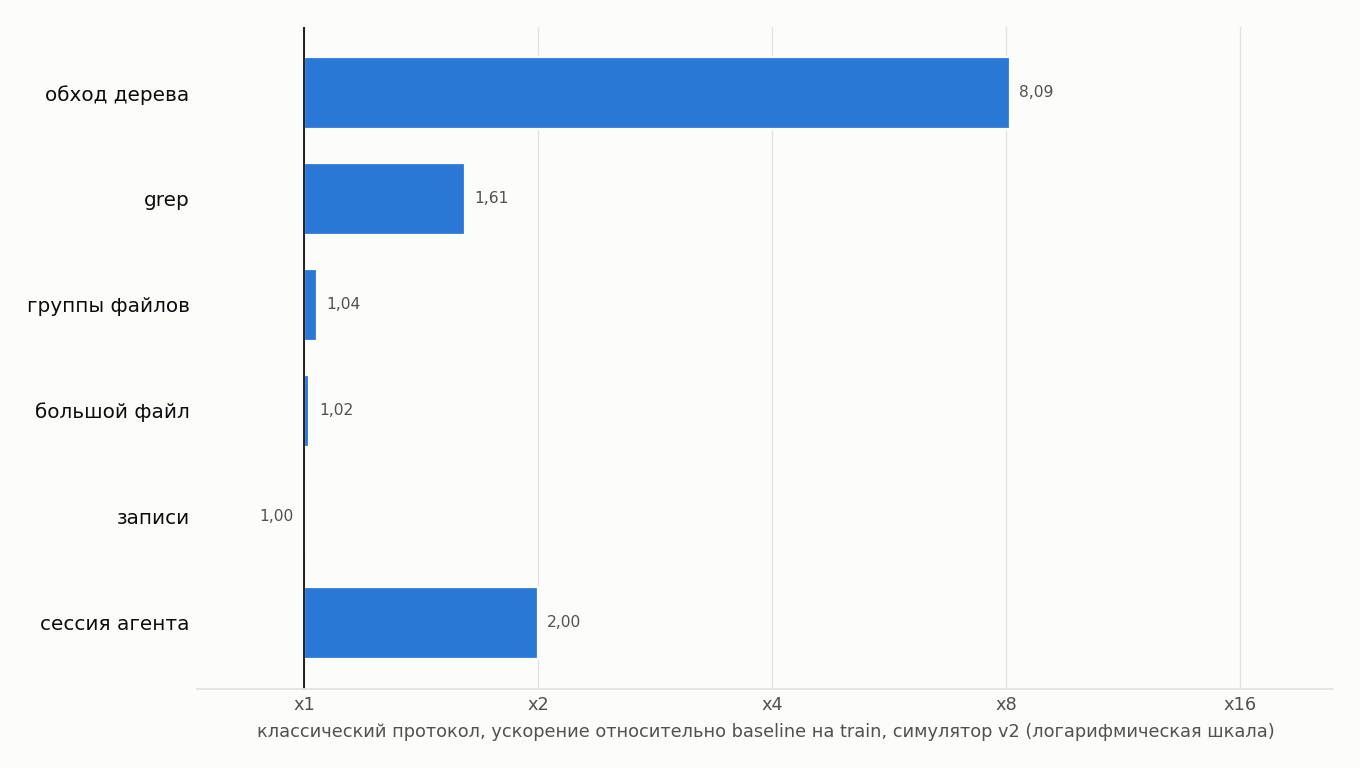
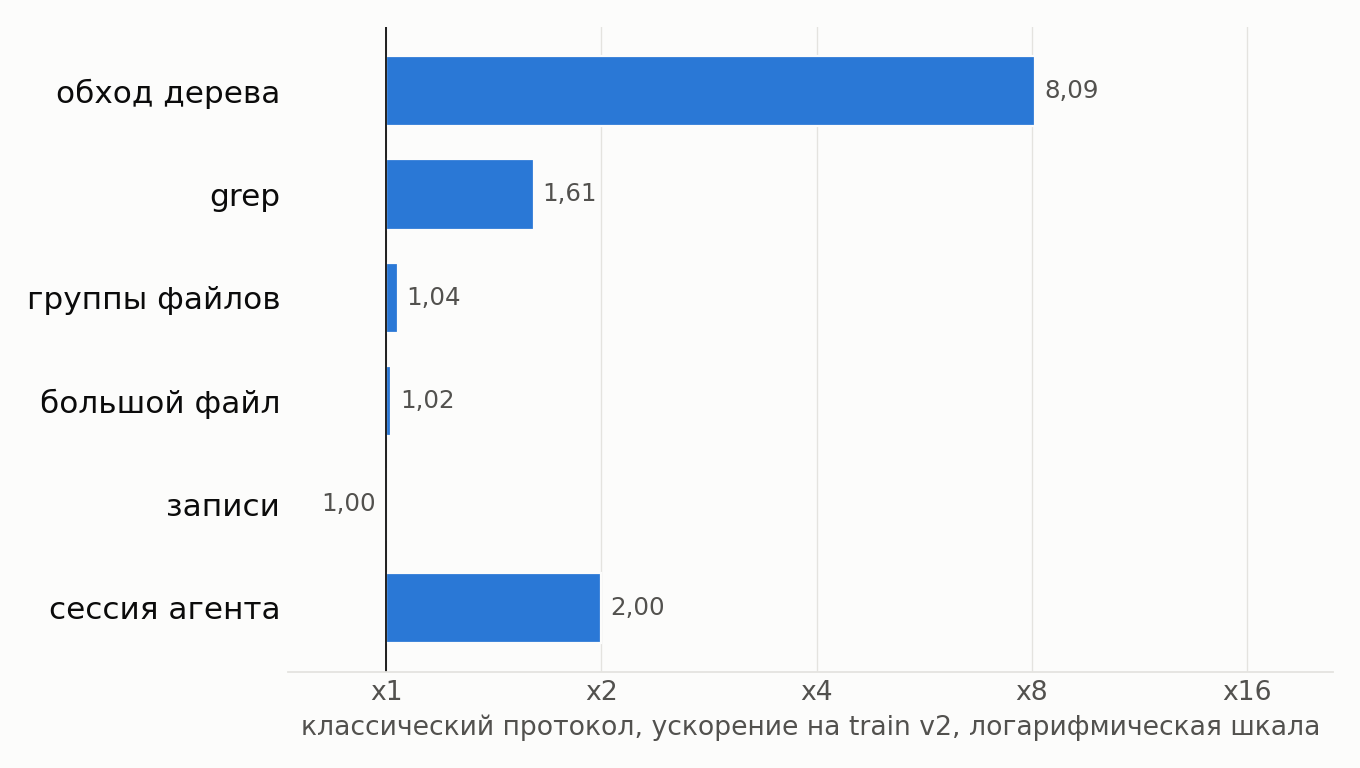
План рассказа по слайдам, график абляции, крупные подписи на графиках

diff --git a/scripts/plot_validation.py b/scripts/plot_validation.py
@@ -19,6 +19,14 @@ V1, V2 = "#2a78d6", "#eb6834"
 INK, MUTED, GRID, SURFACE = "#0b0b0b", "#52514e", "#e4e3df", "#fcfcfb"
 
 
+def short_reason(reason: str) -> str:
+    if "падение сервера" in reason:
+        return "на v2 падает на 256 из 384"
+    if "устаревший" in reason:
+        return "на v2 одно устаревшее чтение на train"
+    return "на v2 не допущен"
+
+
 def main() -> None:
     p = argparse.ArgumentParser()
     p.add_argument("journal", type=Path)
@@ -34,19 +42,20 @@ def main() -> None:
     for i, r in enumerate(rows):
         v1 = math.log2(r["public_v1"])
         ax.barh(i - h / 2, v1, height=h * 0.9, color=V1, label="симулятор v1" if i == 0 else None)
-        ax.text(v1 + 0.06, i - h / 2, f"{r['public_v1']:.2f}".replace(".", ","), va="center", fontsize=7, color=MUTED)
+        ax.text(v1 + 0.06, i - h / 2, f"{r['public_v1']:.2f}".replace(".", ","), va="center", fontsize=11, color=MUTED,
+                bbox={"facecolor": SURFACE, "edgecolor": "none", "pad": 1.5})
         if r["valid_v2"]:
             v2 = math.log2(r["public_v2"])
             ax.barh(i + h / 2, v2, height=h * 0.9, color=V2, label="симулятор v2" if i == 0 else None)
-            ax.text(v2 + 0.06, i + h / 2, f"{r['public_v2']:.2f}".replace(".", ","), va="center", fontsize=7, color=MUTED)
+            ax.text(v2 + 0.06, i + h / 2, f"{r['public_v2']:.2f}".replace(".", ","), va="center", fontsize=11, color=MUTED)
         else:
-            ax.text(math.log2(a.classic) + 0.12, i + h / 2, f"на v2 не допущен, {r['v2_reason']}", va="center", fontsize=7, color=INK)
+            ax.text(math.log2(a.classic) + 0.12, i + h / 2, short_reason(r["v2_reason"]), va="center", fontsize=11, color=INK)
     ax.axvline(math.log2(a.classic), color=MUTED, linewidth=1, linestyle=(0, (4, 3)))
-    ax.text(math.log2(a.classic) + 0.05, -0.62, f"классический протокол на v2, {a.classic:.2f}".replace(".", ","), fontsize=7, color=MUTED)
+    ax.text(math.log2(a.classic) + 0.05, -0.62, f"классический протокол на v2, {a.classic:.2f}".replace(".", ","), fontsize=11, color=MUTED)
     ax.axvline(0, color=INK, linewidth=0.8)
-    ax.set_yticks(range(len(rows)), [f"{r['order']}. {r['id']}" for r in rows], fontsize=9, color=INK)
+    ax.set_yticks(range(len(rows)), [f"{r['order']}. {r['id']}" for r in rows], fontsize=14, color=INK)
     ticks = [0, 1, 2, 3, 4, 5]
-    ax.set_xticks(ticks, [f"x{2 ** t}" for t in ticks], fontsize=8, color=MUTED)
+    ax.set_xticks(ticks, [f"x{2 ** t}" for t in ticks], fontsize=12, color=MUTED)
     ax.set_xlim(-0.1, 5.6)
     ax.grid(axis="x", color=GRID, linewidth=0.6)
     ax.set_axisbelow(True)
@@ -54,9 +63,9 @@ def main() -> None:
         ax.spines[side].set_visible(False)
     ax.spines["bottom"].set_color(GRID)
     ax.tick_params(length=0)
-    ax.set_xlabel("столбцы это ускорение относительно baseline на public при симуляторе v1 (логарифмическая шкала)", fontsize=8, color=MUTED)
+    ax.set_xlabel("ускорение на public при симуляторе v1, логарифмическая шкала", fontsize=12, color=MUTED)
     if any(r["valid_v2"] for r in rows):
-        ax.legend(frameon=False, fontsize=8, loc="lower right")
+        ax.legend(frameon=False, fontsize=12, loc="lower right")
     ax.set_ylim(len(rows) - 0.4, -0.8)
     fig.tight_layout(pad=1.2)
     a.out.parent.mkdir(parents=True, exist_ok=True)

diff --git a/scripts/plot_ablation.py b/scripts/plot_ablation.py
@@ -1,0 +1,75 @@
+"""График абляции. Ускорение r1-c1 на двух деревьях train при разных настройках симулятора.
+
+uv run python scripts/plot_ablation.py results/checks/ablation.jsonl --out results/figures/ablation_r1c1.png
+"""
+
+from __future__ import annotations
+
+import argparse
+import json
+import math
+from pathlib import Path
+
+import matplotlib
+
+matplotlib.use("Agg")
+import matplotlib.pyplot as plt  # noqa: E402
+
+ROOT = Path(__file__).resolve().parents[1]
+BAR, ACCENT = "#2a78d6", "#eb6834"
+INK, MUTED, GRID, SURFACE = "#0b0b0b", "#52514e", "#e4e3df", "#fcfcfb"
+LABELS = {
+    (True, True): "v2 целиком",
+    (False, True): "без джиттера",
+    (True, False): "общие часы",
+    (False, False): "общие часы, без джиттера",
+}
+
+
+def classic_on(trees: list[str]) -> float:
+    rows = [json.loads(line) for line in (ROOT / "results" / "v2" / "classic" / "train.jsonl").read_text().splitlines()]
+    vals = [r["score"] for r in rows if r["example_id"].split("-")[1] in trees]
+    return 2 ** (sum(vals) / len(vals))
+
+
+def main() -> None:
+    p = argparse.ArgumentParser()
+    p.add_argument("ablation", type=Path)
+    p.add_argument("--candidate", default="r1-c1")
+    p.add_argument("--out", type=Path, required=True)
+    a = p.parse_args()
+    rows = [json.loads(line) for line in a.ablation.read_text().splitlines() if line.strip()]
+    rows = [r for r in rows if r["candidate"] == a.candidate]
+    classic = classic_on(rows[0]["trees"])
+    fig, ax = plt.subplots(figsize=(8.5, 3.6), dpi=160)
+    fig.patch.set_facecolor(SURFACE)
+    ax.set_facecolor(SURFACE)
+    for i, r in enumerate(rows):
+        x = math.log2(r["speedup_on_valid"])
+        color = ACCENT if not r["clock_offsets"] else BAR
+        ax.barh(i, x, height=0.6, color=color, edgecolor=SURFACE, linewidth=2)
+        ax.text(x + 0.08, i, f"{r['speedup_on_valid']:.1f}".replace(".", ","), va="center", fontsize=12, color=INK)
+    ax.axvline(math.log2(classic), color=MUTED, linewidth=1, linestyle=(0, (4, 3)))
+    ax.text(math.log2(classic) + 0.06, len(rows) - 0.45, f"классика на тех же деревьях, {classic:.2f}".replace(".", ","), fontsize=11, color=MUTED)
+    ax.set_yticks(range(len(rows)), [LABELS[(r["jitter"], r["clock_offsets"])] for r in rows], fontsize=14, color=INK)
+    ax.invert_yaxis()
+    top = max(math.log2(r["speedup_on_valid"]) for r in rows)
+    ticks = list(range(0, int(math.ceil(top)) + 1))
+    ax.set_xticks(ticks, [f"x{2 ** t}" for t in ticks], color=MUTED, fontsize=12)
+    ax.set_xlim(0, max(ticks) + 0.5)
+    ax.set_ylim(len(rows) - 0.4, -0.75)
+    ax.grid(axis="x", color=GRID, linewidth=0.6)
+    ax.set_axisbelow(True)
+    for side in ["top", "right", "left"]:
+        ax.spines[side].set_visible(False)
+    ax.spines["bottom"].set_color(GRID)
+    ax.tick_params(length=0)
+    n = rows[0]["examples"]
+    ax.set_xlabel(f"{a.candidate} на {n} экземплярах train, логарифмическая шкала", color=MUTED, fontsize=12)
+    fig.tight_layout(pad=1.2)
+    a.out.parent.mkdir(parents=True, exist_ok=True)
+    fig.savefig(a.out, facecolor=SURFACE)
+
+
+if __name__ == "__main__":
+    main()

diff --git a/scripts/plot_results.py b/scripts/plot_results.py
@@ -50,15 +50,15 @@ def main() -> None:
         for y, x, k in zip(ys, xs, KINDS):
             label = f"{vals.get(k, 1.0):.2f}".replace(".", ",")
             if x >= 0:
-                ax.text(x + 0.04, y, label, va="center", ha="left", fontsize=7, color=MUTED)
+                ax.text(x + 0.04, y, label, va="center", ha="left", fontsize=11, color=MUTED)
             else:
-                ax.text(x - 0.04, y, label, va="center", ha="right", fontsize=7, color=MUTED)
+                ax.text(x - 0.04, y, label, va="center", ha="right", fontsize=11, color=MUTED)
     ax.axvline(0, color=INK, linewidth=0.8)
-    ax.set_yticks(range(len(KINDS)), [KIND_RU[k] for k in KINDS], color=INK, fontsize=9)
+    ax.set_yticks(range(len(KINDS)), [KIND_RU[k] for k in KINDS], color=INK, fontsize=14)
     ax.invert_yaxis()
     top = max(math.log2(v) for _, vals in data for v in vals.values())
     ticks = list(range(0, int(math.ceil(top)) + 1))
-    ax.set_xticks(ticks, [f"x{2 ** t}" for t in ticks], color=MUTED, fontsize=8)
+    ax.set_xticks(ticks, [f"x{2 ** t}" for t in ticks], color=MUTED, fontsize=12)
     low = min(math.log2(v) for _, vals in data for v in vals.values())
     ax.set_xlim(min(-0.1, low - 0.45), max(ticks) + 0.4)
     ax.grid(axis="x", color=GRID, linewidth=0.6)
@@ -67,12 +67,12 @@ def main() -> None:
         ax.spines[side].set_visible(False)
     ax.spines["bottom"].set_color(GRID)
     ax.tick_params(length=0)
-    title = "ускорение относительно baseline на train, симулятор v2 (логарифмическая шкала)"
+    title = "ускорение на train v2, логарифмическая шкала"
     if len(data) == 1:
         title = f"{data[0][0]}, {title}"
     else:
-        ax.legend(frameon=False, fontsize=8, loc="lower right", labelcolor=INK)
-    ax.set_xlabel(title, color=MUTED, fontsize=8)
+        ax.legend(frameon=False, fontsize=12, loc="lower right", labelcolor=INK)
+    ax.set_xlabel(title, color=MUTED, fontsize=12)
     fig.tight_layout(pad=1.2)
     a.out.parent.mkdir(parents=True, exist_ok=True)
     fig.savefig(a.out, facecolor=SURFACE)

diff --git a/docs/talk.md b/docs/talk.md
@@ -1,22 +1,25 @@
 # План рассказа
 
-## ЧП1, 5-7 минут
+## ЧП1, около 7 минут
 
-1. Задача. Агент работает в удаленной песочнице, папка пользователя смонтирована туда по сети. Каждая файловая операция агента это поход по сети. При RTT 200 мс наивный протокол обходит репозиторий из 2000 файлов около 9 минут. Хочется, чтобы агент работал почти как с локальным диском и при этом видел правки пользователя, а пользователь видел правки агента.
+Слайды https://claude.ai/artifact/KBjc7DnToLvJQ7UV29C4xu, по одному пункту на слайд.
 
-2. Почему это трудно. Быстро сделать легко, если кэшировать все подряд. Трудно сделать быстро и правильно. Я задал пять гейтов. Чтение видит версию не старше 1 с. Запись агента доходит до пользователя за 1 с. После flush ничего не потеряно. Режим ro соблюдается. Выхода за папку нет. Любое нарушение обнуляет кандидата.
+| Слайд | Время | Что сказать |
+|---|---|---|
+| 1. Обложка | 10 с | AR-02, протокол монтирования папки пользователя в песочницу агента. Тему взял в порядке исключения |
+| 2. Задача | 40 с | Агент в удаленной песочнице, папка у пользователя, каждая файловая операция идет по сети. При RTT 200 мс наивный протокол обходит репозиторий из 2000 файлов около 9 минут. Клиент и сервер протокола и есть то, что растет на арене |
+| 3. Гейты | 40 с | Быстро легко, если кэшировать все. Пять гейтов, главный это свежесть за 1 с. Одно нарушение на любом экземпляре обнуляет кандидата. TTL-кэш NFS этот гейт не проходит |
+| 4. Домен | 40 с | Двенадцать классических подходов сводятся к трем выборам. Как узнавать об изменениях, что тянуть заранее, когда отправлять записи. Baseline это sshfs без кэша, классический ориентир это callback AFS, READDIRPLUS и файл целиком |
+| 5. Симулятор | 40 с | Настоящая сеть стоила бы часы на кандидата. Симулятор с виртуальным временем, клиент и сервер в отдельных процессах шлют байты через модель TCP. Кандидат стоит минуту, сеть детерминирована, разброс 1-1,5% дает только CPU. Тесты ловят 9 жульнических и сломанных кандидатов |
+| 6. Данные | 30 с | Деревья по статистике 64 репозиториев, 6 сценариев на 8 профилей сети. Split по деревьям, потому что экземпляры одного дерева делят пути. Погрешность public около 5% |
+| 7. Метрика | 30 с | Среднее геометрическое ускорение относительно baseline. Времена экземпляров отличаются на порядки, поэтому не сумма. Метрика сверяет число операций и хеш итоговой папки |
+| 8. Арена | 40 с | Исследователь меняет два файла и видит train, public отдает только балл, private ничего. Лимит 30 решений, из 4 финалистов private выбирает 2. Smoke пройден, кейс прогнан в контейнере runner арены |
+| 9. Первые цифры | 30 с | Baseline 1,00, классика 1,74 на train и 1,76 на public. Обход ускоряется в 8 раз, записи и большой файл почти нет, там простор для эволюции |
+| 10. Проверочная кампания | 50 с | Два исследователя на Opus, четыре решения. На v1 лучший дал 27 раз. Ревью нашло три особенности симулятора, которых нет в сети. Я закрыл их в v2, на v2 никто не прошел в финалисты |
+| 11. Абляция | 50 с | Выигрыш r1 почти целиком дали общие часы, 22,5 раза с ними и 3,2 без них. Это аренда свежести, прием из настоящих систем, но в v1 часы совпадали точно. На v2 ее можно сделать честно, если оценить сдвиг часов как NTP. Это первый вопрос к основной кампании |
+| 12. План | 20 с | К ЧП2 решение по нормировке CPU, подготовка и основная кампания на модели курса. К ЧП3 private, перепроверка на настоящей сети и навык |
 
-3. Как меряю. Реальная сеть с `tc netem` стоила бы часы на кандидата и шумела бы. Поэтому я написал симулятор с виртуальным временем. Клиент и сервер протокола живут в отдельных процессах и шлют друг другу байты через модель TCP-соединения с очередью, RTT, потерями и полосой. Кандидат оценивается за минуту, повторный прогон меняет итог не больше чем на 1%. Лучших кандидатов перепроверю на настоящей сети к ЧП3.
-
-4. Данные. Деревья файлов генерируются по статистике 64 репозиториев GitHub на 8 языках. Шесть сценариев агента (обход, grep, группы файлов, большой файл, записи, смешанная сессия с паузами LLM и правками пользователя) на восемь профилей сети. Split по деревьям, train 8, public 4, private 6. Погрешность public около 5%.
-
-5. Метрика. Среднее геометрическое ускорение относительно baseline, ноль за любое нарушение. Тесты ловят 9 жульнических и сломанных кандидатов, от устаревшего кэша до кэша на диске между экземплярами. Восемь обнуляются гейтами, лишний CPU снижает балл.
-
-6. Первые цифры. Baseline (один запрос на операцию) равен 1,0. Классический протокол из трех идей (кэш с уведомлениями как в AFS, READDIRPLUS как в NFSv3, файл целиком) дает 1,74 на train и 1,76 на public. Обход дерева ускоряется в 8 раз, записи и большой файл почти не ускоряются. Там основной простор для эволюции. График в `results/figures/speedup_by_kind.png`.
-
-7. Проверочная кампания на Opus. Два исследователя, четыре решения. На симуляторе v1 лучший кандидат дал 27 раз на public. Ревью нашло три особенности v1, которых нет в настоящей сети. Сеть была детерминирована, часы клиента и сервера совпадали, текст генератора повторял строки между файлами. Я закрыл все три в v2 (джиттер, свои часы у каждой стороны, текст, сверенный с настоящими репозиториями). Абляция показала, что выигрыш r1 почти целиком дали общие часы, с ними он ускоряет в 22-23 раза, без них в 3 раза. Его аренда свежести сравнивала метку сервера со своими часами. Это прием из настоящих систем, но в жизни часы надо синхронизировать, а в v1 они совпадали точно. Кандидатам r2 нужны были и детерминированная сеть, и общие часы, на v2 они падают. Кандидаты r1 на v2 дают 2,2-2,4 на public, но у каждого одно настоящее устаревшее чтение на train, и в финалисты они не идут. Выводов два. Постановку надо проверять до основной кампании, арена находит дыры лучше меня. И честная версия аренды с оценкой сдвига часов, как в NTP, на v2 возможна, так что потолок, вероятно, выше классики. Это главный вопрос к основной кампании. Разбор в [evolution.md](evolution.md).
-
-8. Дальше. Подготовка и основная кампания на модели курса с лимитом 30 к ЧП2. Перепроверка на настоящей сети. Навык с FUSE-клиентом к ЧП3.
+Подробности для ответов в [evolution.md](evolution.md), [arena.md](arena.md) и ADR.
 
 ## Вопросы, к которым стоит быть готовым
 
@@ -33,6 +36,12 @@
 | Зачем проверочная кампания, если она не основная | Она нашла три дыры в симуляторе и генераторе. Без нее основная кампания потратила бы лимит на подгонку под них |
 | Насколько стабилен балл | Сеть детерминирована сидом экземпляра. Шум дает процессорное время. У baseline и классики повтор меняет итог на 1-1,5%, у тяжелого по CPU кандидата до 11% при разной загрузке машины. Поэтому меряю при одинаковой параллельности, а до основной кампании решу про нормировку CPU ([ADR-0009](adr/0009-cpu-time.md)) |
 | Кейс точно запустится в арене | Я прогнал solve.py в контейнере с параметрами runner арены (без сети, корень только для чтения, 2 ГБ, 2 CPU). Код выхода 0, ответ меньше 1 КБ, пик памяти 85 МБ ([results/checks](../results/checks)) |
+| Зачем в арене разные роли | Каждая защищает от своей ошибки. Метрику замораживает агент подготовки до поиска, private держит оператор, лимит считает оркестратор, ревьюер ловит подгонку и выход за разрешенные файлы ([arena.md](arena.md)) |
+| От чего защищает видимость split | Public отдает одно число, по нему не видно, какой экземпляр сломался. Private не возвращает ничего, поэтому финальная оценка не становится обратной связью для поиска |
+| Почему лимит в решениях, а не в токенах | Лимит в тех же единицах, что ось кривой, и не зависит от модели. Упавшее решение тоже занимает место, иначе можно бесплатно пробовать |
+| Как считается AUC | Точка встает по числу предложенных решений к концу проверки, значение держится до следующего события. В проверочной кампании AUC 26,6 на горизонте 4 |
+| Где граница изоляции | Контейнер на каждый пример, без сети, кандидат и симулятор только для чтения. Отчет симулятора рождается рядом с кодом кандидата, поэтому подделку отчета ловят ревью диффа и два разрешенных файла, а не контейнер |
+| Почему упали 4 теста арены | Это macOS. Длина пути ограничена 1024 байтами, APFS не принимает имена не в UTF-8, Compose из Docker Desktop иначе рендерит конфиг, и один тест переименовывает каталог в самого себя. Smoke прошел |
 | Что если арена найдет новую дыру в v2 | Метрика заморожена на время кампании. Найденную дыру я фиксирую в разборе, а кандидата с ней не беру в финалисты по ревью |
 
 ## ЧП3, 10-15 минут

diff --git a/README.md b/README.md
@@ -54,6 +54,7 @@ uv run python scripts/ablation.py results/validation-opus/candidates/r1-c1 --tre
 uv run python scripts/container_check.py case/ways/classic --ids train-t02-grep-rtt200-loss1           # запуск как в runner арены, нужен Docker
 uv run python scripts/plot_results.py --out results/figures/speedup_by_kind.png "классический протокол=results/v2/classic/train.jsonl"
 uv run python scripts/plot_validation.py results/validation-opus/journal.jsonl --out results/figures/validation_v1_v2.png
+uv run python scripts/plot_ablation.py results/checks/ablation.jsonl --out results/figures/ablation_r1c1.png
 uv run python scripts/check_candidate.py case/ways/<кандидат>
 uv run python scripts/collect_repo_stats.py --per-language 8 --out mountsim/data/repo_stats.json   # нужен gh
 ```
